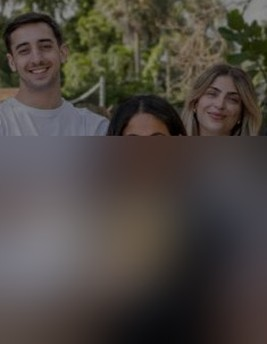
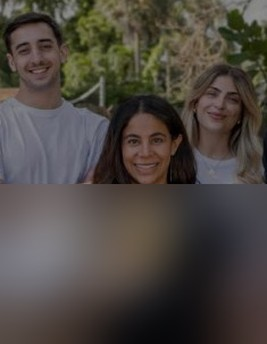
fix: shrink the obscured band on 12 portfolio photos, fix 3 with text bleed
Measured each of the 12 photos individually against a pixel ruler to
find exactly where Figma's baked-in title starts, instead of one
blanket oversized band sized for the worst case. Most cards only
needed a small strip blurred (as little as 56px out of 314), not the
~190px I was using — so far more of each photo is now visible and
sharp, much closer to the untouched cards (Tim Draper, Incode, etc.)
that never had this problem.

That same per-image check caught 3 photos where the previous band was
actually too short and the real title was bleeding through the blur
(mapa-fintech, camara-fintech-medios, camara-fintech-branding — the
last one showing "CÁMARA" clearly legible). Fixed by moving their
band boundaries to match where their (longer, 3-line) titles actually
start.

Bumped the cache-busting query param (?v=2 → ?v=3) again since this
overwrites the same filenames as the last two fixes.

Changed region(s): [[0.2697, 0.3779, 1.0, 0.5523], [0.0, 0.4942, 0.03, 0.5523]]

diff --git a/portfolio.html b/portfolio.html
@@ -61,7 +61,7 @@
 
       <div class="portfolio-grid" id="portfolio-grid">
 
-        <a class="pgrid-card" data-cat="medios" href="portfolio-satellites.html" style="background-image:url('images/portfolio/satellites.jpg?v=2');">
+        <a class="pgrid-card" data-cat="medios" href="portfolio-satellites.html" style="background-image:url('images/portfolio/satellites.jpg?v=3');">
           <div class="pgrid-overlay"></div>
           <div class="pgrid-copy">
             <h3 class="pgrid-title">Satellites on Fire</h3>
@@ -69,7 +69,7 @@
           </div>
         </a>
 
-        <a class="pgrid-card" data-cat="medios" href="portfolio-tim-draper.html" style="background-image:url('images/portfolio/tim-draper.jpg?v=2');">
+        <a class="pgrid-card" data-cat="medios" href="portfolio-tim-draper.html" style="background-image:url('images/portfolio/tim-draper.jpg?v=3');">
           <div class="pgrid-overlay"></div>
           <div class="pgrid-copy">
             <h3 class="pgrid-title">Tim Draper en Argentina</h3>
@@ -77,7 +77,7 @@
           </div>
         </a>
 
-        <a class="pgrid-card" data-cat="medios" href="portfolio-mobile-first.html" style="background-image:url('images/portfolio/mobile-first.jpg?v=2');">
+        <a class="pgrid-card" data-cat="medios" href="portfolio-mobile-first.html" style="background-image:url('images/portfolio/mobile-first.jpg?v=3');">
           <div class="pgrid-overlay"></div>
           <div class="pgrid-copy">
             <h3 class="pgrid-title">The Mobile First Company</h3>
@@ -85,7 +85,7 @@
           </div>
         </a>
 
-        <a class="pgrid-card" data-cat="medios" href="portfolio-mapa-fintech.html" style="background-image:url('images/portfolio/mapa-fintech.jpg?v=2');">
+        <a class="pgrid-card" data-cat="medios" href="portfolio-mapa-fintech.html" style="background-image:url('images/portfolio/mapa-fintech.jpg?v=3');">
           <div class="pgrid-overlay"></div>
           <div class="pgrid-copy">
             <h3 class="pgrid-title">Mapa Argentina Fintech</h3>
@@ -93,7 +93,7 @@
           </div>
         </a>
 
-        <a class="pgrid-card" data-cat="medios" href="portfolio-camara-fintech-medios.html" style="background-image:url('images/portfolio/camara-fintech-medios.jpg?v=2');">
+        <a class="pgrid-card" data-cat="medios" href="portfolio-camara-fintech-medios.html" style="background-image:url('images/portfolio/camara-fintech-medios.jpg?v=3');">
           <div class="pgrid-overlay"></div>
           <div class="pgrid-copy">
             <h3 class="pgrid-title">Cámara Argentina Fintech</h3>
@@ -101,7 +101,7 @@
           </div>
         </a>
 
-        <a class="pgrid-card" data-cat="medios" href="portfolio-lyra.html" style="background-image:url('images/portfolio/lyra.jpg?v=2');">
+        <a class="pgrid-card" data-cat="medios" href="portfolio-lyra.html" style="background-image:url('images/portfolio/lyra.jpg?v=3');">
           <div class="pgrid-overlay"></div>
           <div class="pgrid-copy">
             <h3 class="pgrid-title">Lyra</h3>
@@ -109,7 +109,7 @@
           </div>
         </a>
 
-        <a class="pgrid-card" data-cat="medios" href="portfolio-melian.html" style="background-image:url('images/portfolio/melian.jpg?v=2');">
+        <a class="pgrid-card" data-cat="medios" href="portfolio-melian.html" style="background-image:url('images/portfolio/melian.jpg?v=3');">
           <div class="pgrid-overlay"></div>
           <div class="pgrid-copy">
             <h3 class="pgrid-title">Melián</h3>
@@ -117,7 +117,7 @@
           </div>
         </a>
 
-        <a class="pgrid-card" data-cat="medios" href="portfolio-incode.html" style="background-image:url('images/portfolio/incode.jpg?v=2');">
+        <a class="pgrid-card" data-cat="medios" href="portfolio-incode.html" style="background-image:url('images/portfolio/incode.jpg?v=3');">
           <div class="pgrid-overlay"></div>
           <div class="pgrid-copy">
             <h3 class="pgrid-title">Incode</h3>
@@ -125,7 +125,7 @@
           </div>
         </a>
 
-        <a class="pgrid-card" data-cat="medios" href="portfolio-draper-cygnus.html" style="background-image:url('images/portfolio/draper-cygnus-medios.jpg?v=2');">
+        <a class="pgrid-card" data-cat="medios" href="portfolio-draper-cygnus.html" style="background-image:url('images/portfolio/draper-cygnus-medios.jpg?v=3');">
           <div class="pgrid-overlay"></div>
           <div class="pgrid-copy">
             <h3 class="pgrid-title">Draper Cygnus</h3>
@@ -133,7 +133,7 @@
           </div>
         </a>
 
-        <a class="pgrid-card" data-cat="branding" href="portfolio-draper-cygnus.html" style="background-image:url('images/portfolio/draper-cygnus-branding.jpg?v=2');">
+        <a class="pgrid-card" data-cat="branding" href="portfolio-draper-cygnus.html" style="background-image:url('images/portfolio/draper-cygnus-branding.jpg?v=3');">
           <div class="pgrid-overlay"></div>
           <div class="pgrid-copy">
             <h3 class="pgrid-title">Draper Cygnus</h3>
@@ -141,7 +141,7 @@
           </div>
         </a>
 
-        <a class="pgrid-card" data-cat="branding" href="portfolio-camara-fintech-branding.html" style="background-image:url('images/portfolio/camara-fintech-branding.jpg?v=2');">
+        <a class="pgrid-card" data-cat="branding" href="portfolio-camara-fintech-branding.html" style="background-image:url('images/portfolio/camara-fintech-branding.jpg?v=3');">
           <div class="pgrid-overlay"></div>
           <div class="pgrid-copy">
             <h3 class="pgrid-title">Cámara Argentina Fintech</h3>
@@ -149,7 +149,7 @@
           </div>
         </a>
 
-        <a class="pgrid-card" data-cat="branding" href="portfolio-icona.html" style="background-image:url('images/portfolio/icona.jpg?v=2');">
+        <a class="pgrid-card" data-cat="branding" href="portfolio-icona.html" style="background-image:url('images/portfolio/icona.jpg?v=3');">
           <div class="pgrid-overlay"></div>
           <div class="pgrid-copy">
             <h3 class="pgrid-title">Ícona</h3>
@@ -157,7 +157,7 @@
           </div>
         </a>
 
-        <a class="pgrid-card" data-cat="branding" href="portfolio-manteca.html" style="background-image:url('images/portfolio/manteca.jpg?v=2');">
+        <a class="pgrid-card" data-cat="branding" href="portfolio-manteca.html" style="background-image:url('images/portfolio/manteca.jpg?v=3');">
           <div class="pgrid-overlay"></div>
           <div class="pgrid-copy">
             <h3 class="pgrid-title">Manteca</h3>
@@ -165,7 +165,7 @@
           </div>
         </a>
 
-        <a class="pgrid-card" data-cat="branding" href="portfolio-newtopia.html" style="background-image:url('images/portfolio/newtopia.jpg?v=2');">
+        <a class="pgrid-card" data-cat="branding" href="portfolio-newtopia.html" style="background-image:url('images/portfolio/newtopia.jpg?v=3');">
           <div class="pgrid-overlay"></div>
           <div class="pgrid-copy">
             <h3 class="pgrid-title">Newtopia</h3>
@@ -173,7 +173,7 @@
           </div>
         </a>
 
-        <a class="pgrid-card" data-cat="audiovisual" href="portfolio-aff.html" style="background-image:url('images/portfolio/aff-2025.jpg?v=2');">
+        <a class="pgrid-card" data-cat="audiovisual" href="portfolio-aff.html" style="background-image:url('images/portfolio/aff-2025.jpg?v=3');">
           <div class="pgrid-overlay"></div>
           <div class="pgrid-copy">
             <h3 class="pgrid-title">Argentina Fintech Forum 2025</h3>
@@ -181,7 +181,7 @@
           </div>
         </a>
 
-        <a class="pgrid-card" data-cat="audiovisual" href="portfolio-poincenot.html" style="background-image:url('images/portfolio/poincenot.jpg?v=2');">
+        <a class="pgrid-card" data-cat="audiovisual" href="portfolio-poincenot.html" style="background-image:url('images/portfolio/poincenot.jpg?v=3');">
           <div class="pgrid-overlay"></div>
           <div class="pgrid-copy">
             <h3 class="pgrid-title">Poincenot</h3>
@@ -189,7 +189,7 @@
           </div>
         </a>
 
-        <a class="pgrid-card" data-cat="paid" href="portfolio-bybit.html" style="background-image:url('images/portfolio/bybit.jpg?v=2');">
+        <a class="pgrid-card" data-cat="paid" href="portfolio-bybit.html" style="background-image:url('images/portfolio/bybit.jpg?v=3');">
           <div class="pgrid-overlay"></div>
           <div class="pgrid-copy">
             <h3 class="pgrid-title">Bybit</h3>
@@ -197,7 +197,7 @@
           </div>
         </a>
 
-        <a class="pgrid-card" data-cat="podcast" href="portfolio-argy.html" style="background-image:url('images/portfolio/argy.jpg?v=2');">
+        <a class="pgrid-card" data-cat="podcast" href="portfolio-argy.html" style="background-image:url('images/portfolio/argy.jpg?v=3');">
           <div class="pgrid-overlay"></div>
           <div class="pgrid-copy">
             <h3 class="pgrid-title">Argy</h3>
